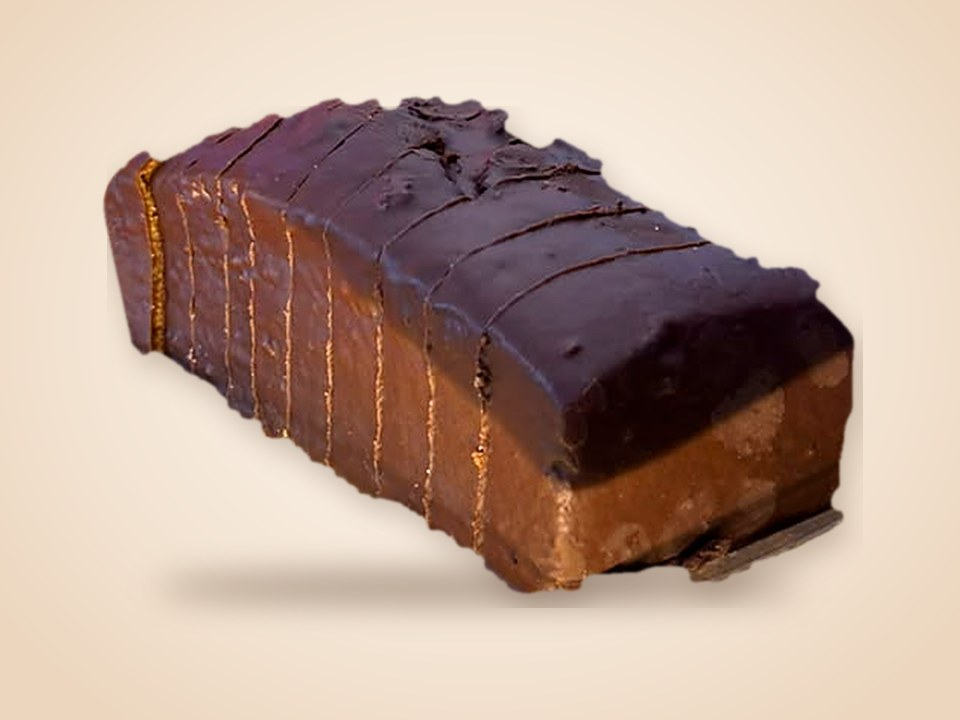
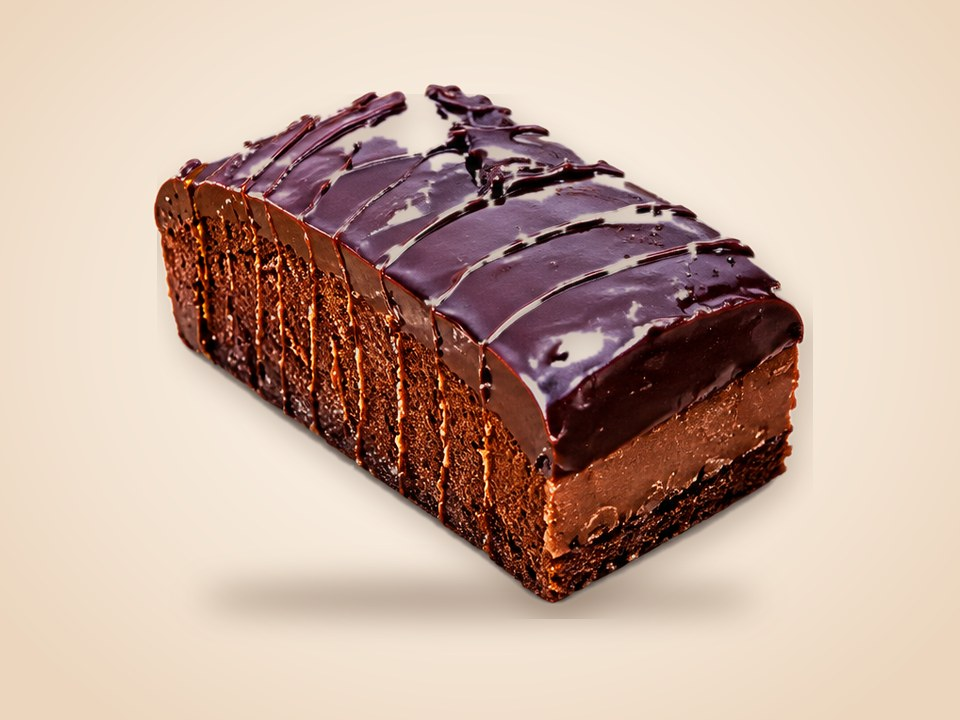
Nuevas fotos de tres domos; quita Domo de Chocolate cubierto
Claude-Session: https://claude.ai/code/session_01CXgPpzeanZSn7nNy7uupPz

Changed region(s): [[0.0938, 0.0917, 0.9062, 0.8861]]

diff --git a/index.html b/index.html
@@ -126,7 +126,7 @@ a{color:#9A4A0E}a:hover{color:#3A2216}
 </section><section id="domos" data-row="1" style="background: #FFF8EF; padding: 72px 0 80px">
 <div style="max-width: 2080px; margin: 0 auto; padding: 0 clamp(20px, 4vw, 56px); display: flex; flex-wrap: wrap; align-items: flex-end; justify-content: space-between; gap: 20px">
 <div style="display: flex; flex-direction: column; gap: 6px">
-<span style="font-size: 14px; font-weight: 800; letter-spacing: 0.14em; text-transform: uppercase; color: #B4520F">05 · 9 productos</span>
+<span style="font-size: 14px; font-weight: 800; letter-spacing: 0.14em; text-transform: uppercase; color: #B4520F">05 · 8 productos</span>
 <h2 style="margin: 0; font-family: Fredoka, sans-serif; font-weight: 700; font-size: clamp(44px, 6vw, 84px); line-height: 0.95; letter-spacing: -0.03em; color: #3A2216">Domos</h2>
 </div>
 <div style="display: flex; gap: 12px">
@@ -134,7 +134,7 @@ a{color:#9A4A0E}a:hover{color:#3A2216}
 <button type="button" aria-label="Ver siguientes" data-act="next" class="bj-arrow" style="width: 56px; height: 56px; border-radius: 999px; border: 2px solid #3A2216; background: #3A2216; color: #F5E6D3; display: flex; align-items: center; justify-content: center; cursor: pointer"><svg aria-hidden="true" width="22" height="22" viewBox="0 0 24 24" fill="none" stroke="currentColor" stroke-width="2.4" stroke-linecap="round" stroke-linejoin="round"><path d="M9 6l6 6-6 6"></path></svg></button>
 </div>
 </div>
-<div data-track="1" class="bj-track" style="display: flex; gap: 20px; overflow-x: auto; scroll-snap-type: x mandatory; scroll-padding: 0; box-sizing: content-box; max-width: 2080px; margin: 0 auto; padding: 36px clamp(20px, 4vw, 56px) 8px; scroll-padding-left: clamp(20px, 4vw, 56px)"><article class="bj-card" tabindex="0" style="flex: 0 0 clamp(250px, 16vw, 340px); scroll-snap-align: start; box-sizing: border-box; padding: 12px 12px 18px; border-radius: 24px; background: #FFF8EF; border: 1.5px solid #E3C9AC; display: flex; flex-direction: column; gap: 12px"><img class="bj-cardcat" src="assets/catface.png" alt="" aria-hidden="true"><img src="assets/domo-arandanos.jpg" alt="Domo de Arándanos" style="display: block; width: 100%; aspect-ratio: 4 / 3; object-fit: cover; border-radius: 16px; background: #F3E2CF"><div style="display: flex; flex-direction: column; gap: 8px; padding: 0 6px"><h3 style="margin: 0; font-family: Fredoka, sans-serif; font-weight: 600; font-size: 20px; line-height: 1.15; color: #3A2216">Domo de Arándanos</h3></div></article><article class="bj-card" tabindex="0" style="flex: 0 0 clamp(250px, 16vw, 340px); scroll-snap-align: start; box-sizing: border-box; padding: 12px 12px 18px; border-radius: 24px; background: #FFF8EF; border: 1.5px solid #E3C9AC; display: flex; flex-direction: column; gap: 12px"><img class="bj-cardcat" src="assets/catface.png" alt="" aria-hidden="true"><img src="assets/domo-vino.jpg" alt="Domo de Vino con Frutas" style="display: block; width: 100%; aspect-ratio: 4 / 3; object-fit: cover; border-radius: 16px; background: #F3E2CF"><div style="display: flex; flex-direction: column; gap: 8px; padding: 0 6px"><h3 style="margin: 0; font-family: Fredoka, sans-serif; font-weight: 600; font-size: 20px; line-height: 1.15; color: #3A2216">Domo de Vino con Frutas</h3></div></article><article class="bj-card" tabindex="0" style="flex: 0 0 clamp(250px, 16vw, 340px); scroll-snap-align: start; box-sizing: border-box; padding: 12px 12px 18px; border-radius: 24px; background: #FFF8EF; border: 1.5px solid #E3C9AC; display: flex; flex-direction: column; gap: 12px"><img class="bj-cardcat" src="assets/catface.png" alt="" aria-hidden="true"><img src="assets/domo-amapola.jpg" alt="Domo de Amapola" style="display: block; width: 100%; aspect-ratio: 4 / 3; object-fit: cover; border-radius: 16px; background: #F3E2CF"><div style="display: flex; flex-direction: column; gap: 8px; padding: 0 6px"><h3 style="margin: 0; font-family: Fredoka, sans-serif; font-weight: 600; font-size: 20px; line-height: 1.15; color: #3A2216">Domo de Amapola</h3></div></article><article class="bj-card" tabindex="0" style="flex: 0 0 clamp(250px, 16vw, 340px); scroll-snap-align: start; box-sizing: border-box; padding: 12px 12px 18px; border-radius: 24px; background: #FFF8EF; border: 1.5px solid #E3C9AC; display: flex; flex-direction: column; gap: 12px"><img class="bj-cardcat" src="assets/catface.png" alt="" aria-hidden="true"><img src="assets/domo-naranja.jpg" alt="Domo de Naranja" style="display: block; width: 100%; aspect-ratio: 4 / 3; object-fit: cover; border-radius: 16px; background: #F3E2CF"><div style="display: flex; flex-direction: column; gap: 8px; padding: 0 6px"><h3 style="margin: 0; font-family: Fredoka, sans-serif; font-weight: 600; font-size: 20px; line-height: 1.15; color: #3A2216">Domo de Naranja</h3></div></article><article class="bj-card" tabindex="0" style="flex: 0 0 clamp(250px, 16vw, 340px); scroll-snap-align: start; box-sizing: border-box; padding: 12px 12px 18px; border-radius: 24px; background: #FFF8EF; border: 1.5px solid #E3C9AC; display: flex; flex-direction: column; gap: 12px"><img class="bj-cardcat" src="assets/catface.png" alt="" aria-hidden="true"><img src="assets/domo-brazo.jpg" alt="Domo de Brazo de Reina" style="display: block; width: 100%; aspect-ratio: 4 / 3; object-fit: cover; border-radius: 16px; background: #F3E2CF"><div style="display: flex; flex-direction: column; gap: 8px; padding: 0 6px"><h3 style="margin: 0; font-family: Fredoka, sans-serif; font-weight: 600; font-size: 20px; line-height: 1.15; color: #3A2216">Domo de Brazo de Reina</h3></div></article><article class="bj-card" tabindex="0" style="flex: 0 0 clamp(250px, 16vw, 340px); scroll-snap-align: start; box-sizing: border-box; padding: 12px 12px 18px; border-radius: 24px; background: #FFF8EF; border: 1.5px solid #E3C9AC; display: flex; flex-direction: column; gap: 12px"><img class="bj-cardcat" src="assets/catface.png" alt="" aria-hidden="true"><img src="assets/domo-chocolate.jpg" alt="Domo de Chocolate cubierto" style="display: block; width: 100%; aspect-ratio: 4 / 3; object-fit: cover; border-radius: 16px; background: #F3E2CF"><div style="display: flex; flex-direction: column; gap: 8px; padding: 0 6px"><h3 style="margin: 0; font-family: Fredoka, sans-serif; font-weight: 600; font-size: 20px; line-height: 1.15; color: #3A2216">Domo de Chocolate cubierto</h3></div></article><article class="bj-card" tabindex="0" style="flex: 0 0 clamp(250px, 16vw, 340px); scroll-snap-align: start; box-sizing: border-box; padding: 12px 12px 18px; border-radius: 24px; background: #FFF8EF; border: 1.5px solid #E3C9AC; display: flex; flex-direction: column; gap: 12px"><img class="bj-cardcat" src="assets/catface.png" alt="" aria-hidden="true"><img src="assets/domo-vainilla-choco.jpg" alt="Domo de Vainilla y Chocolate" style="display: block; width: 100%; aspect-ratio: 4 / 3; object-fit: cover; border-radius: 16px; background: #F3E2CF"><div style="display: flex; flex-direction: column; gap: 8px; padding: 0 6px"><h3 style="margin: 0; font-family: Fredoka, sans-serif; font-weight: 600; font-size: 20px; line-height: 1.15; color: #3A2216">Domo de Vainilla y Chocolate</h3></div></article><article class="bj-card" tabindex="0" style="flex: 0 0 clamp(250px, 16vw, 340px); scroll-snap-align: start; box-sizing: border-box; padding: 12px 12px 18px; border-radius: 24px; background: #FFF8EF; border: 1.5px solid #E3C9AC; display: flex; flex-direction: column; gap: 12px"><img class="bj-cardcat" src="assets/catface.png" alt="" aria-hidden="true"><img src="assets/domo-vainilla-cubierta.jpg" alt="Domo de Vainilla cubierta" style="display: block; width: 100%; aspect-ratio: 4 / 3; object-fit: cover; border-radius: 16px; background: #F3E2CF"><div style="display: flex; flex-direction: column; gap: 8px; padding: 0 6px"><h3 style="margin: 0; font-family: Fredoka, sans-serif; font-weight: 600; font-size: 20px; line-height: 1.15; color: #3A2216">Domo de Vainilla cubierta</h3></div></article><article class="bj-card" tabindex="0" style="flex: 0 0 clamp(250px, 16vw, 340px); scroll-snap-align: start; box-sizing: border-box; padding: 12px 12px 18px; border-radius: 24px; background: #FFF8EF; border: 1.5px solid #E3C9AC; display: flex; flex-direction: column; gap: 12px"><img class="bj-cardcat" src="assets/catface.png" alt="" aria-hidden="true"><img src="assets/domo-zanahoria.jpg" alt="Domo de Zanahoria" style="display: block; width: 100%; aspect-ratio: 4 / 3; object-fit: cover; border-radius: 16px; background: #F3E2CF"><div style="display: flex; flex-direction: column; gap: 8px; padding: 0 6px"><h3 style="margin: 0; font-family: Fredoka, sans-serif; font-weight: 600; font-size: 20px; line-height: 1.15; color: #3A2216">Domo de Zanahoria</h3></div></article></div>
+<div data-track="1" class="bj-track" style="display: flex; gap: 20px; overflow-x: auto; scroll-snap-type: x mandatory; scroll-padding: 0; box-sizing: content-box; max-width: 2080px; margin: 0 auto; padding: 36px clamp(20px, 4vw, 56px) 8px; scroll-padding-left: clamp(20px, 4vw, 56px)"><article class="bj-card" tabindex="0" style="flex: 0 0 clamp(250px, 16vw, 340px); scroll-snap-align: start; box-sizing: border-box; padding: 12px 12px 18px; border-radius: 24px; background: #FFF8EF; border: 1.5px solid #E3C9AC; display: flex; flex-direction: column; gap: 12px"><img class="bj-cardcat" src="assets/catface.png" alt="" aria-hidden="true"><img src="assets/domo-arandanos.jpg" alt="Domo de Arándanos" style="display: block; width: 100%; aspect-ratio: 4 / 3; object-fit: cover; border-radius: 16px; background: #F3E2CF"><div style="display: flex; flex-direction: column; gap: 8px; padding: 0 6px"><h3 style="margin: 0; font-family: Fredoka, sans-serif; font-weight: 600; font-size: 20px; line-height: 1.15; color: #3A2216">Domo de Arándanos</h3></div></article><article class="bj-card" tabindex="0" style="flex: 0 0 clamp(250px, 16vw, 340px); scroll-snap-align: start; box-sizing: border-box; padding: 12px 12px 18px; border-radius: 24px; background: #FFF8EF; border: 1.5px solid #E3C9AC; display: flex; flex-direction: column; gap: 12px"><img class="bj-cardcat" src="assets/catface.png" alt="" aria-hidden="true"><img src="assets/domo-vino.jpg" alt="Domo de Vino con Frutas" style="display: block; width: 100%; aspect-ratio: 4 / 3; object-fit: cover; border-radius: 16px; background: #F3E2CF"><div style="display: flex; flex-direction: column; gap: 8px; padding: 0 6px"><h3 style="margin: 0; font-family: Fredoka, sans-serif; font-weight: 600; font-size: 20px; line-height: 1.15; color: #3A2216">Domo de Vino con Frutas</h3></div></article><article class="bj-card" tabindex="0" style="flex: 0 0 clamp(250px, 16vw, 340px); scroll-snap-align: start; box-sizing: border-box; padding: 12px 12px 18px; border-radius: 24px; background: #FFF8EF; border: 1.5px solid #E3C9AC; display: flex; flex-direction: column; gap: 12px"><img class="bj-cardcat" src="assets/catface.png" alt="" aria-hidden="true"><img src="assets/domo-amapola.jpg" alt="Domo de Amapola" style="display: block; width: 100%; aspect-ratio: 4 / 3; object-fit: cover; border-radius: 16px; background: #F3E2CF"><div style="display: flex; flex-direction: column; gap: 8px; padding: 0 6px"><h3 style="margin: 0; font-family: Fredoka, sans-serif; font-weight: 600; font-size: 20px; line-height: 1.15; color: #3A2216">Domo de Amapola</h3></div></article><article class="bj-card" tabindex="0" style="flex: 0 0 clamp(250px, 16vw, 340px); scroll-snap-align: start; box-sizing: border-box; padding: 12px 12px 18px; border-radius: 24px; background: #FFF8EF; border: 1.5px solid #E3C9AC; display: flex; flex-direction: column; gap: 12px"><img class="bj-cardcat" src="assets/catface.png" alt="" aria-hidden="true"><img src="assets/domo-naranja.jpg" alt="Domo de Naranja" style="display: block; width: 100%; aspect-ratio: 4 / 3; object-fit: cover; border-radius: 16px; background: #F3E2CF"><div style="display: flex; flex-direction: column; gap: 8px; padding: 0 6px"><h3 style="margin: 0; font-family: Fredoka, sans-serif; font-weight: 600; font-size: 20px; line-height: 1.15; color: #3A2216">Domo de Naranja</h3></div></article><article class="bj-card" tabindex="0" style="flex: 0 0 clamp(250px, 16vw, 340px); scroll-snap-align: start; box-sizing: border-box; padding: 12px 12px 18px; border-radius: 24px; background: #FFF8EF; border: 1.5px solid #E3C9AC; display: flex; flex-direction: column; gap: 12px"><img class="bj-cardcat" src="assets/catface.png" alt="" aria-hidden="true"><img src="assets/domo-brazo.jpg" alt="Domo de Brazo de Reina" style="display: block; width: 100%; aspect-ratio: 4 / 3; object-fit: cover; border-radius: 16px; background: #F3E2CF"><div style="display: flex; flex-direction: column; gap: 8px; padding: 0 6px"><h3 style="margin: 0; font-family: Fredoka, sans-serif; font-weight: 600; font-size: 20px; line-height: 1.15; color: #3A2216">Domo de Brazo de Reina</h3></div></article><article class="bj-card" tabindex="0" style="flex: 0 0 clamp(250px, 16vw, 340px); scroll-snap-align: start; box-sizing: border-box; padding: 12px 12px 18px; border-radius: 24px; background: #FFF8EF; border: 1.5px solid #E3C9AC; display: flex; flex-direction: column; gap: 12px"><img class="bj-cardcat" src="assets/catface.png" alt="" aria-hidden="true"><img src="assets/domo-vainilla-choco.jpg" alt="Domo de Vainilla y Chocolate" style="display: block; width: 100%; aspect-ratio: 4 / 3; object-fit: cover; border-radius: 16px; background: #F3E2CF"><div style="display: flex; flex-direction: column; gap: 8px; padding: 0 6px"><h3 style="margin: 0; font-family: Fredoka, sans-serif; font-weight: 600; font-size: 20px; line-height: 1.15; color: #3A2216">Domo de Vainilla y Chocolate</h3></div></article><article class="bj-card" tabindex="0" style="flex: 0 0 clamp(250px, 16vw, 340px); scroll-snap-align: start; box-sizing: border-box; padding: 12px 12px 18px; border-radius: 24px; background: #FFF8EF; border: 1.5px solid #E3C9AC; display: flex; flex-direction: column; gap: 12px"><img class="bj-cardcat" src="assets/catface.png" alt="" aria-hidden="true"><img src="assets/domo-vainilla-cubierta.jpg" alt="Domo de Vainilla cubierta" style="display: block; width: 100%; aspect-ratio: 4 / 3; object-fit: cover; border-radius: 16px; background: #F3E2CF"><div style="display: flex; flex-direction: column; gap: 8px; padding: 0 6px"><h3 style="margin: 0; font-family: Fredoka, sans-serif; font-weight: 600; font-size: 20px; line-height: 1.15; color: #3A2216">Domo de Vainilla cubierta</h3></div></article><article class="bj-card" tabindex="0" style="flex: 0 0 clamp(250px, 16vw, 340px); scroll-snap-align: start; box-sizing: border-box; padding: 12px 12px 18px; border-radius: 24px; background: #FFF8EF; border: 1.5px solid #E3C9AC; display: flex; flex-direction: column; gap: 12px"><img class="bj-cardcat" src="assets/catface.png" alt="" aria-hidden="true"><img src="assets/domo-zanahoria.jpg" alt="Domo de Zanahoria" style="display: block; width: 100%; aspect-ratio: 4 / 3; object-fit: cover; border-radius: 16px; background: #F3E2CF"><div style="display: flex; flex-direction: column; gap: 8px; padding: 0 6px"><h3 style="margin: 0; font-family: Fredoka, sans-serif; font-weight: 600; font-size: 20px; line-height: 1.15; color: #3A2216">Domo de Zanahoria</h3></div></article></div>
 </section><section id="mini" data-row="1" style="background: #3A2216; padding: 72px 0 80px">
 <div style="max-width: 2080px; margin: 0 auto; padding: 0 clamp(20px, 4vw, 56px); display: flex; flex-wrap: wrap; align-items: flex-end; justify-content: space-between; gap: 20px">
 <div style="display: flex; flex-direction: column; gap: 6px">
